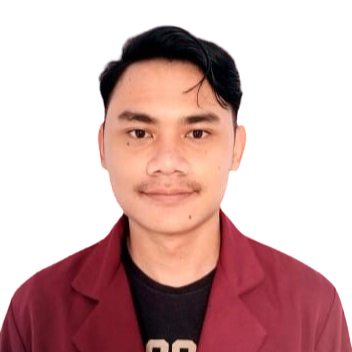
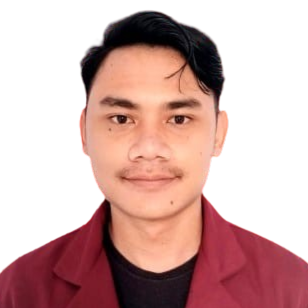
tambah foto hapis

diff --git a/index.html b/index.html
@@ -46,9 +46,9 @@
        
       <!-- jumbotron -->
       <section class="jumbotron text-center float-left">
-        <img src="./assets/img/Hadi.png" alt="Hafidz" width="200" class="rounded-circle img-thumbnail">
+        <img src="./assets/img/FOTO_FORMAL-removebg-preview.png" alt="Hafidz" width="200" class="rounded-circle img-thumbnail">
         <img src="./assets/img/rama.png" width="200" class="rounded-circle img-thumbnail" alt="Ramadhan">
-        <img src="./assets/img/rama.png" width="200" class="rounded-circle img-thumbnail" alt="Hadi">
+        <img src="./assets/img/Hadi.png" width="200" class="rounded-circle img-thumbnail" alt="Hadi">
       <div class="container text-center mt-5 font-poppins">
         <h1 class="mb-4">Monitoring Cuaca</h1>
         <p>Embedded project</p>
